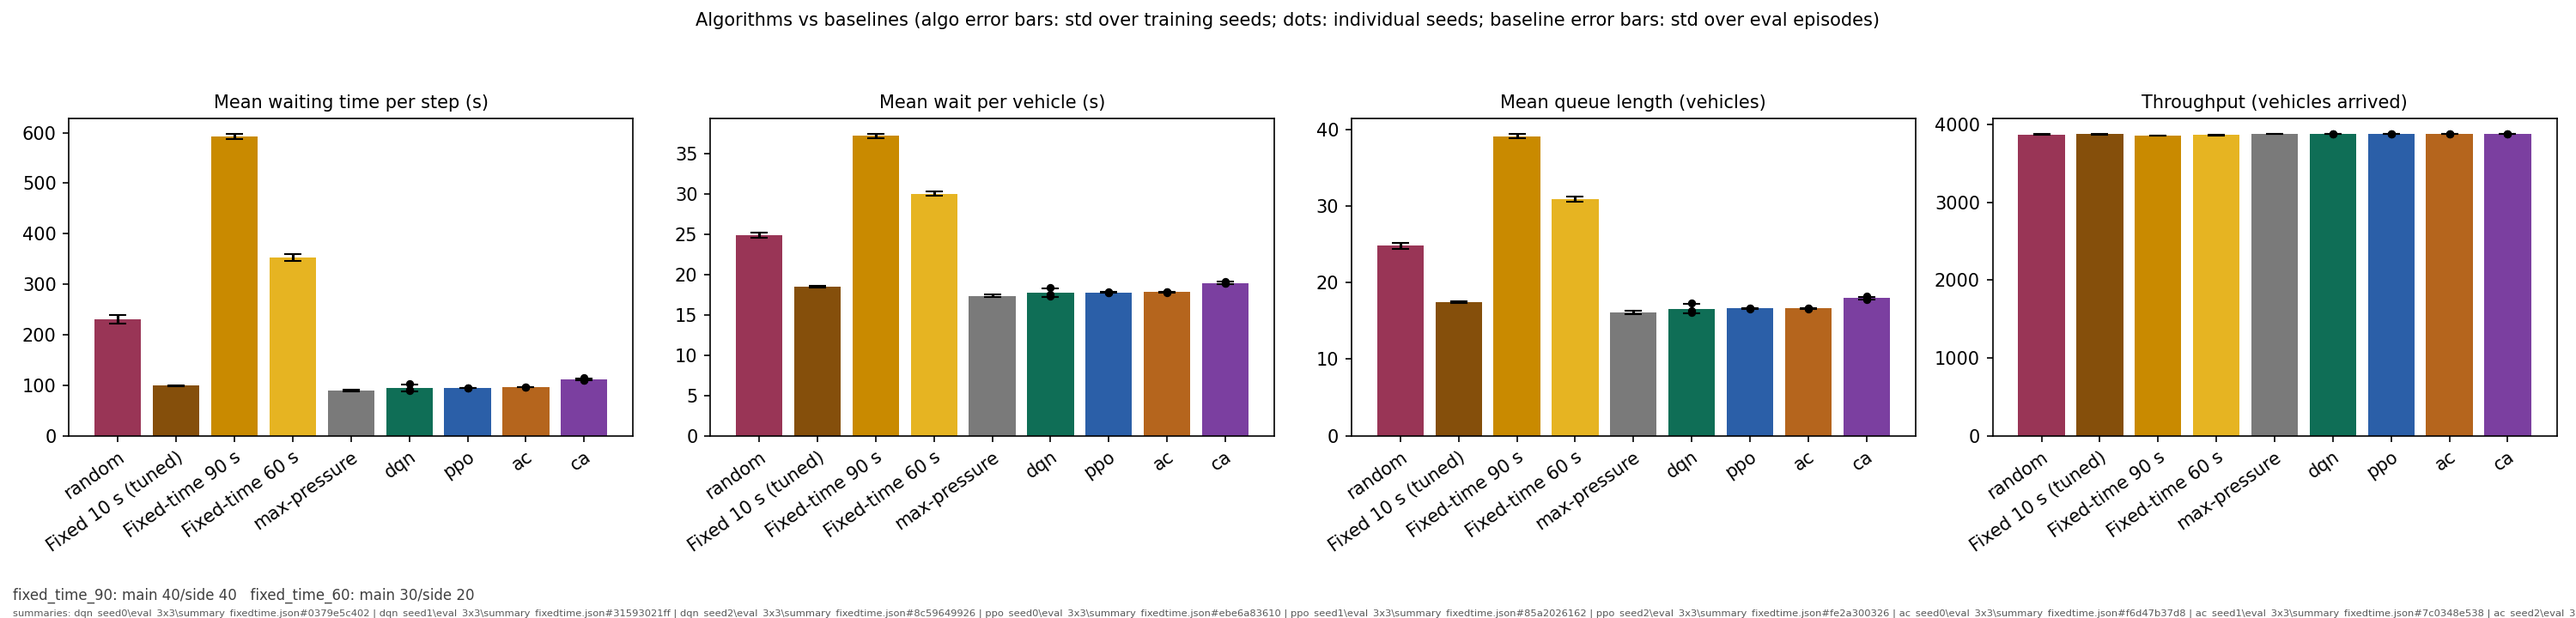
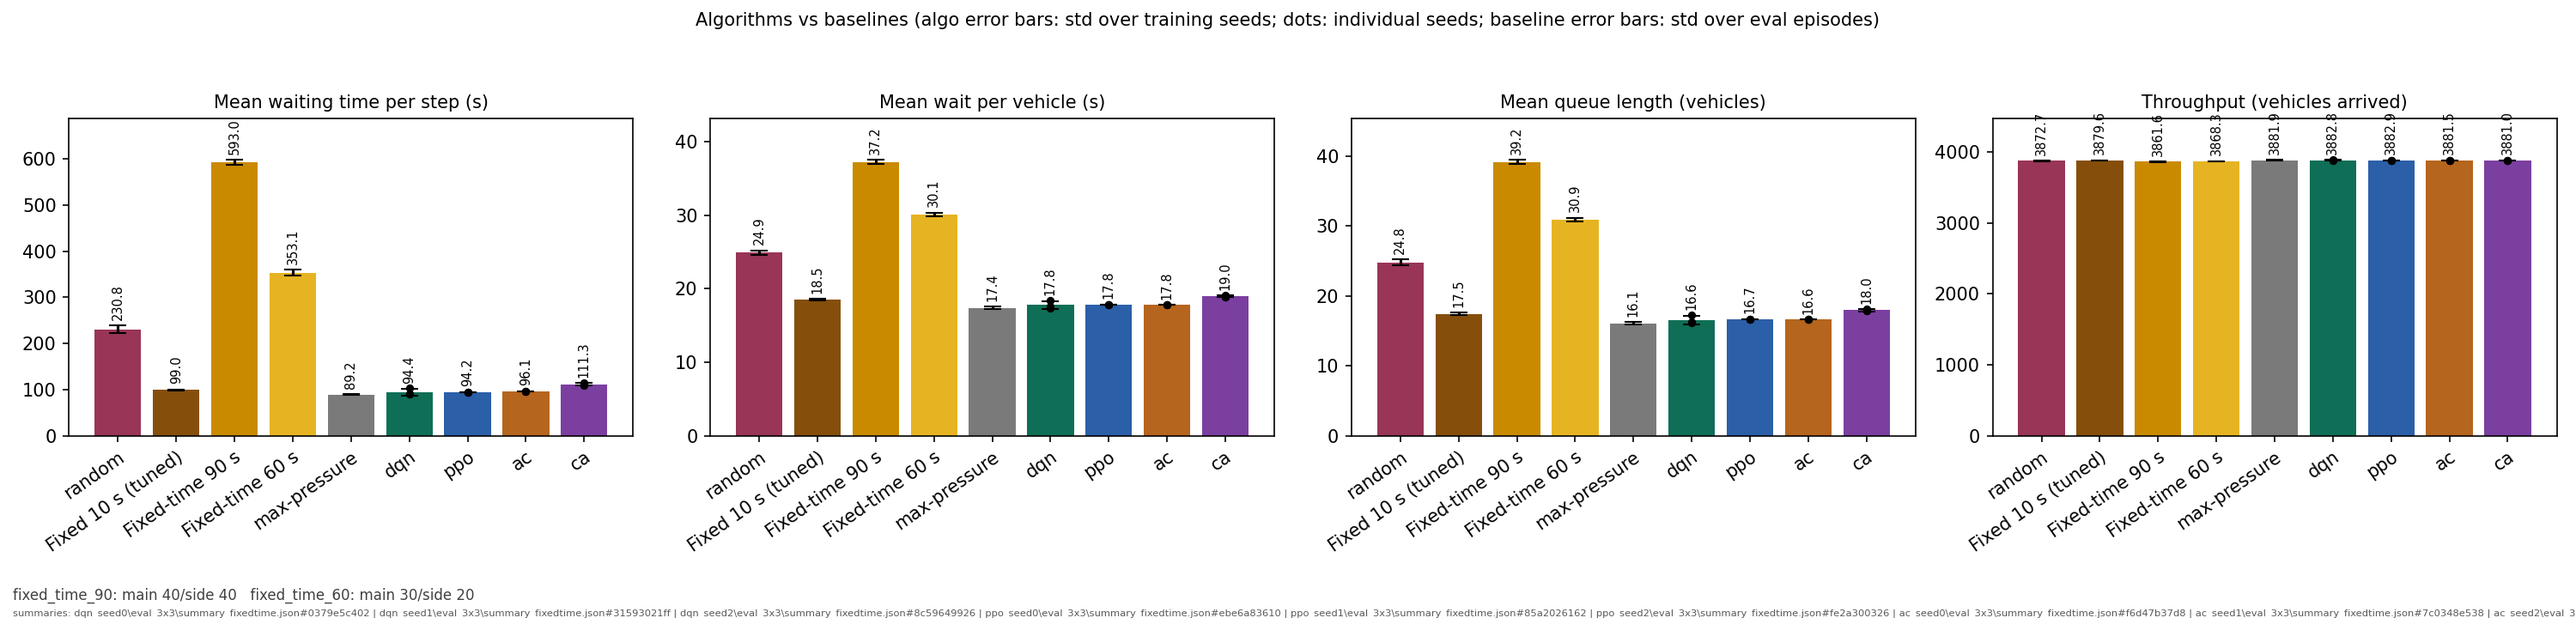
Add

diff --git a/diagnostics/compare_algorithms.py b/diagnostics/compare_algorithms.py
@@ -29,6 +29,7 @@ COLORS = {"fixed_time_90": "#C98A00", "fixed_time_60": "#E6B422", "random": "#99
           "max_pressure": "#7A7A7A", "dqn": "#0F6E56", "ppo": "#2B5FA8", "ac": "#B5651D", "ca": "#7B3FA0"}
 
 
+
 def main():
     p = argparse.ArgumentParser()
     p.add_argument("--runs_dir", default=os.path.join(PROJECT_ROOT, "runs"))
@@ -36,74 +37,254 @@ def main():
     p.add_argument("--seeds", type=int, nargs="+", default=[0, 1, 2])
     p.add_argument("--summary_name", default="eval_4x4/summary.json")
     p.add_argument("--out", default=None)
+    p.add_argument(
+        "--drop",
+        nargs="*",
+        default=[],
+        help="baseline keys to leave out of the figure"
+    )
+
+    # Parse arguments only after registering all arguments.
     args, _ = p.parse_known_args()
-    p.add_argument("--drop", nargs="*", default=[], help="baseline keys to leave out of the figure")
+
     S, files = {}, []
+
     for a in args.algos:
         S[a] = []
         for s in args.seeds:
-            f = os.path.join(args.runs_dir, f"{a}_seed{s}", args.summary_name)
+            f = os.path.join(
+                args.runs_dir,
+                f"{a}_seed{s}",
+                args.summary_name
+            )
+
             if not os.path.exists(f):
-                print(f"MISSING: {f}"); continue
-            S[a].append(json.load(open(f))); files.append(f)
+                print(f"MISSING: {f}")
+                continue
+
+            with open(f, "r", encoding="utf-8") as fp:
+                S[a].append(json.load(fp))
+
+            files.append(f)
+
     if not files:
         raise SystemExit("no summary.json files found")
 
     base_runs = [s for a in S for s in S[a]]
-    BASELINES = [b for b in ("random", "fixed_cycle", "fixed_time_90", "fixed_time_60", "max_pressure") if all(b in r for r in base_runs)]
+
+    BASELINES = [
+        b for b in (
+            "random",
+            "fixed_cycle",
+            "fixed_time_90",
+            "fixed_time_60",
+            "max_pressure"
+        )
+        if all(b in r for r in base_runs)
+    ]
+
     BASELINES = [b for b in BASELINES if b not in args.drop]
+
     for pol in BASELINES:
         for m, _ in METRICS:
-            v = [r[pol][m]["mean"] for r in base_runs if m in r[pol]]
-            if v and (max(v) - min(v)) > 1e-6 * max(1.0, abs(np.mean(v))):
-                print(f"WARNING: {pol}/{m} differs between runs (min {min(v):.3f}, max {max(v):.3f}) "
-                      f"- runs were not evaluated against identical baselines")
+            v = [
+                r[pol][m]["mean"]
+                for r in base_runs
+                if m in r[pol]
+            ]
+
+            if v and (max(v) - min(v)) > (
+                1e-6 * max(1.0, abs(np.mean(v)))
+            ):
+                print(
+                    f"WARNING: {pol}/{m} differs between runs "
+                    f"(min {min(v):.3f}, max {max(v):.3f}) "
+                    "- runs were not evaluated against identical baselines"
+                )
+
     for key in ("fixed_time_90", "fixed_time_60"):
         if key in BASELINES:
-            splits = {(r[key].get("split_main_green"), r[key].get("split_side_green")) for r in base_runs}
-            if len(splits) > 1:
-                print(f"WARNING: {key} uses different main/side splits across runs: {sorted(map(str, splits))}")
-    splits_txt = "   ".join(f"{k}: main {base_runs[0][k].get('split_main_green')}/side {base_runs[0][k].get('split_side_green')}"
-                          for k in ("fixed_time_90", "fixed_time_60") if k in BASELINES)
+            splits = {
+                (
+                    r[key].get("split_main_green"),
+                    r[key].get("split_side_green")
+                )
+                for r in base_runs
+            }
 
-    policies = BASELINES + [a for a in args.algos if S[a]]
-    fig, axes = plt.subplots(1, len(METRICS), figsize=(5 * len(METRICS), 4.8))
-    print(f"\n{'metric':36s}" + "".join(f"{p_:>22s}" for p_ in policies))
+            if len(splits) > 1:
+                print(
+                    f"WARNING: {key} uses different main/side splits "
+                    f"across runs: {sorted(map(str, splits))}"
+                )
+
+    splits_txt = "   ".join(
+        f"{k}: main {base_runs[0][k].get('split_main_green')}"
+        f"/side {base_runs[0][k].get('split_side_green')}"
+        for k in ("fixed_time_90", "fixed_time_60")
+        if k in BASELINES
+    )
+
+    policies = BASELINES + [
+        a for a in args.algos if S[a]
+    ]
+
+    fig, axes = plt.subplots(
+        1,
+        len(METRICS),
+        figsize=(5 * len(METRICS), 4.8)
+    )
+
+    print(
+        f"\n{'metric':36s}"
+        + "".join(f"{p_:>22s}" for p_ in policies)
+    )
+
     for ax, (m, title) in zip(axes, METRICS):
         means, errs, pts = [], [], []
+
         for pol in policies:
             if pol in BASELINES:
-                vals = [r[pol][m]["mean"] for r in base_runs if m in r[pol]]
-                err = base_runs[0][pol][m]["std"] if vals else 0.0
+                vals = [
+                    r[pol][m]["mean"]
+                    for r in base_runs
+                    if m in r[pol]
+                ]
+
+                err = (
+                    base_runs[0][pol][m]["std"]
+                    if vals else 0.0
+                )
+
             else:
-                vals = [r["algo"][m]["mean"] for r in S[pol] if m in r["algo"]]
-                err = float(np.std(vals, ddof=1)) if len(vals) > 1 else 0.0
-            means.append(float(np.mean(vals)) if vals else np.nan); errs.append(err); pts.append(vals)
-        bars = ax.bar([LABELS.get(p_, p_) for p_ in policies], means, yerr=errs, capsize=5, color=[COLORS.get(p_, "#777777") for p_ in policies])
-        ax.bar_label(bars, labels=[f"{v:.1f}" if abs(v) >= 10 else f"{v:.2f}" for v in means], fontsize=7, padding=3,
-                    rotation=90 if len(policies) > 6 else 0)
+                vals = [
+                    r["algo"][m]["mean"]
+                    for r in S[pol]
+                    if m in r["algo"]
+                ]
+
+                err = (
+                    float(np.std(vals, ddof=1))
+                    if len(vals) > 1 else 0.0
+                )
+
+            means.append(
+                float(np.mean(vals)) if vals else np.nan
+            )
+            errs.append(err)
+            pts.append(vals)
+
+        bars = ax.bar(
+            [LABELS.get(p_, p_) for p_ in policies],
+            means,
+            yerr=errs,
+            capsize=5,
+            color=[
+                COLORS.get(p_, "#777777")
+                for p_ in policies
+            ]
+        )
+
+        ax.bar_label(
+            bars,
+            labels=[
+                f"{v:.1f}" if abs(v) >= 10 else f"{v:.2f}"
+                for v in means
+            ],
+            fontsize=7,
+            padding=3,
+            rotation=90 if len(policies) > 6 else 0
+        )
+
         ax.margins(y=0.15)
+
         for i, v in enumerate(pts):
             if policies[i] in S and len(v) > 1:
-                ax.scatter([i] * len(v), v, color="k", s=12, zorder=3)
-        ax.set_title(title, fontsize=10); plt.setp(ax.get_xticklabels(), rotation=35, ha="right", rotation_mode="anchor")
-        print(f"{m:36s}" + "".join(f"{(f'{mu:.2f}±{e:.2f}'):>22s}" for mu, e in zip(means, errs)))
+                ax.scatter(
+                    [i] * len(v),
+                    v,
+                    color="k",
+                    s=12,
+                    zorder=3
+                )
+
+        ax.set_title(title, fontsize=10)
+
+        plt.setp(
+            ax.get_xticklabels(),
+            rotation=35,
+            ha="right",
+            rotation_mode="anchor"
+        )
+
+        print(
+            f"{m:36s}"
+            + "".join(
+                f"{(f'{mu:.2f}±{e:.2f}'):>22s}"
+                for mu, e in zip(means, errs)
+            )
+        )
+
         if m == "mean_waiting_time":
-            for ref_key in ("fixed_cycle", "fixed_time_90", "fixed_time_60"):
+            for ref_key in (
+                "fixed_cycle",
+                "fixed_time_90",
+                "fixed_time_60"
+            ):
                 if ref_key in policies:
                     rv = means[policies.index(ref_key)]
-                    print(f"{'  improvement vs ' + LABELS[ref_key] + ' %':36s}" + "".join(f"{100 * (rv - mu) / rv:>22.1f}" for mu in means))
-    fig.suptitle("Algorithms vs baselines (algo error bars: std over training seeds; dots: individual seeds; "
-                 "baseline error bars: std over eval episodes)", fontsize=10)
+
+                    print(
+                        f"{'  improvement vs ' + LABELS[ref_key] + ' %':36s}"
+                        + "".join(
+                            f"{100 * (rv - mu) / rv:>22.1f}"
+                            for mu in means
+                        )
+                    )
+
+    fig.suptitle(
+        "Algorithms vs baselines "
+        "(algo error bars: std over training seeds; "
+        "dots: individual seeds; "
+        "baseline error bars: std over eval episodes)",
+        fontsize=10
+    )
+
     fig.tight_layout(rect=(0, 0.07, 1, 0.94))
+
     if splits_txt:
-        fig.text(0.005, 0.03, splits_txt, fontsize=8, color="0.25")
-    fig.text(0.005, 0.004, "summaries: " + " | ".join(f"{os.path.relpath(f, args.runs_dir)}#{file_hash(f)}" for f in files),
-             fontsize=5.5, color="0.35")
-    out = args.out or os.path.join(args.runs_dir, "aggregate", "compare_algorithms.png")
+        fig.text(
+            0.005, 0.03, splits_txt,
+            fontsize=8, color="0.25"
+        )
+
+    fig.text(
+        0.005,
+        0.004,
+        "summaries: " + " | ".join(
+            f"{os.path.relpath(f, args.runs_dir)}#{file_hash(f)}"
+            for f in files
+        ),
+        fontsize=5.5,
+        color="0.35"
+    )
+
+    out = args.out or os.path.join(
+        args.runs_dir,
+        "aggregate",
+        "compare_algorithms.png"
+    )
+
     os.makedirs(os.path.dirname(out), exist_ok=True)
-    fig.savefig(out, dpi=150); plt.close(fig)
-    print(f"\nsaved: {out}   (n runs: {{{', '.join(f'{a}: {len(S[a])}' for a in S)}}})")
+
+    fig.savefig(out, dpi=150)
+    plt.close(fig)
+
+    print(
+        f"\nsaved: {out}   "
+        f"(n runs: {{{', '.join(f'{a}: {len(S[a])}' for a in S)}}})"
+    )
+
 
 
 if __name__ == "__main__":
